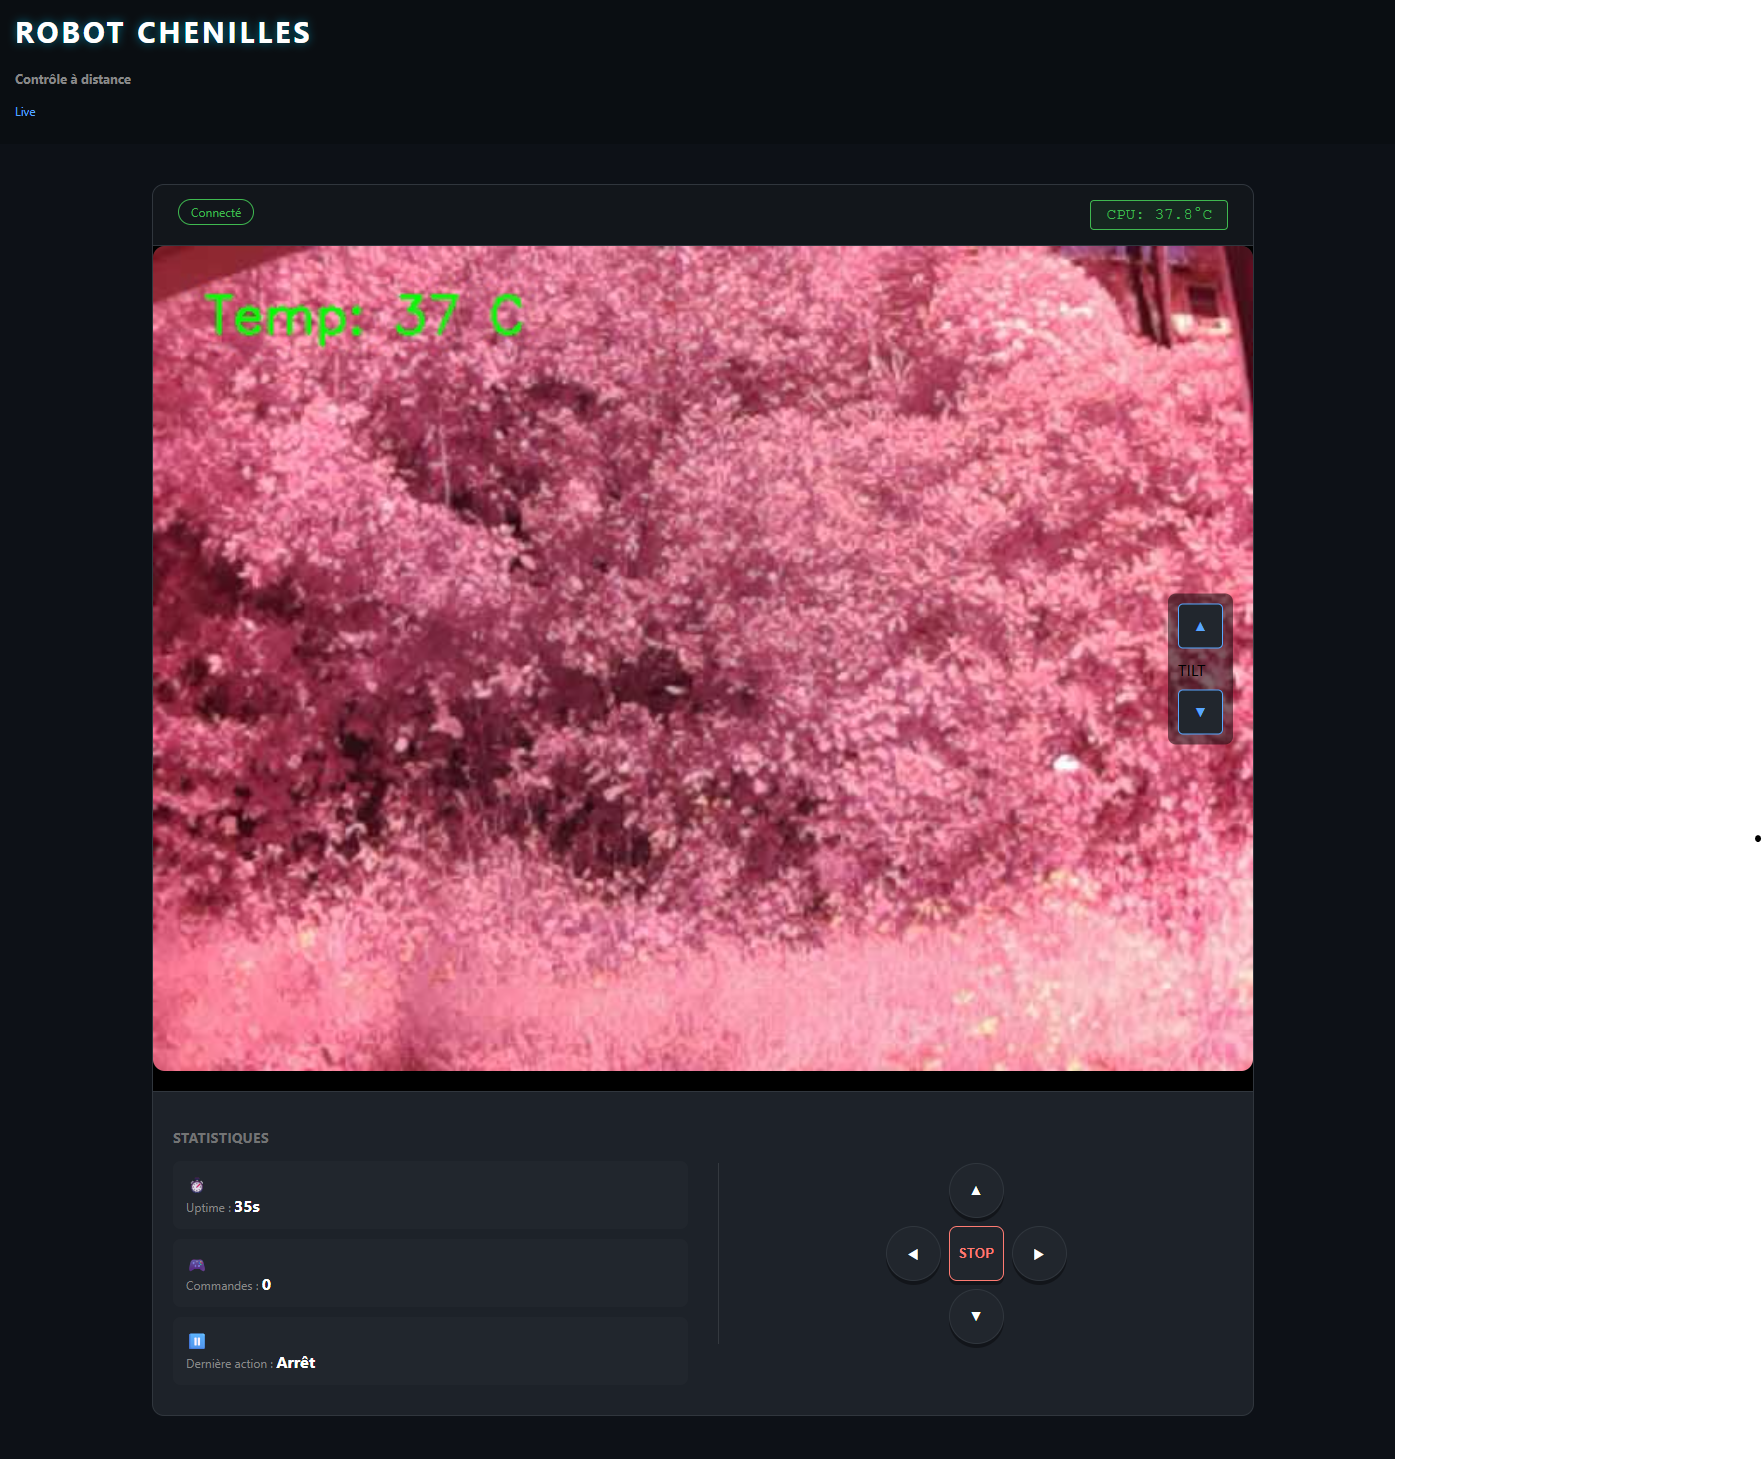
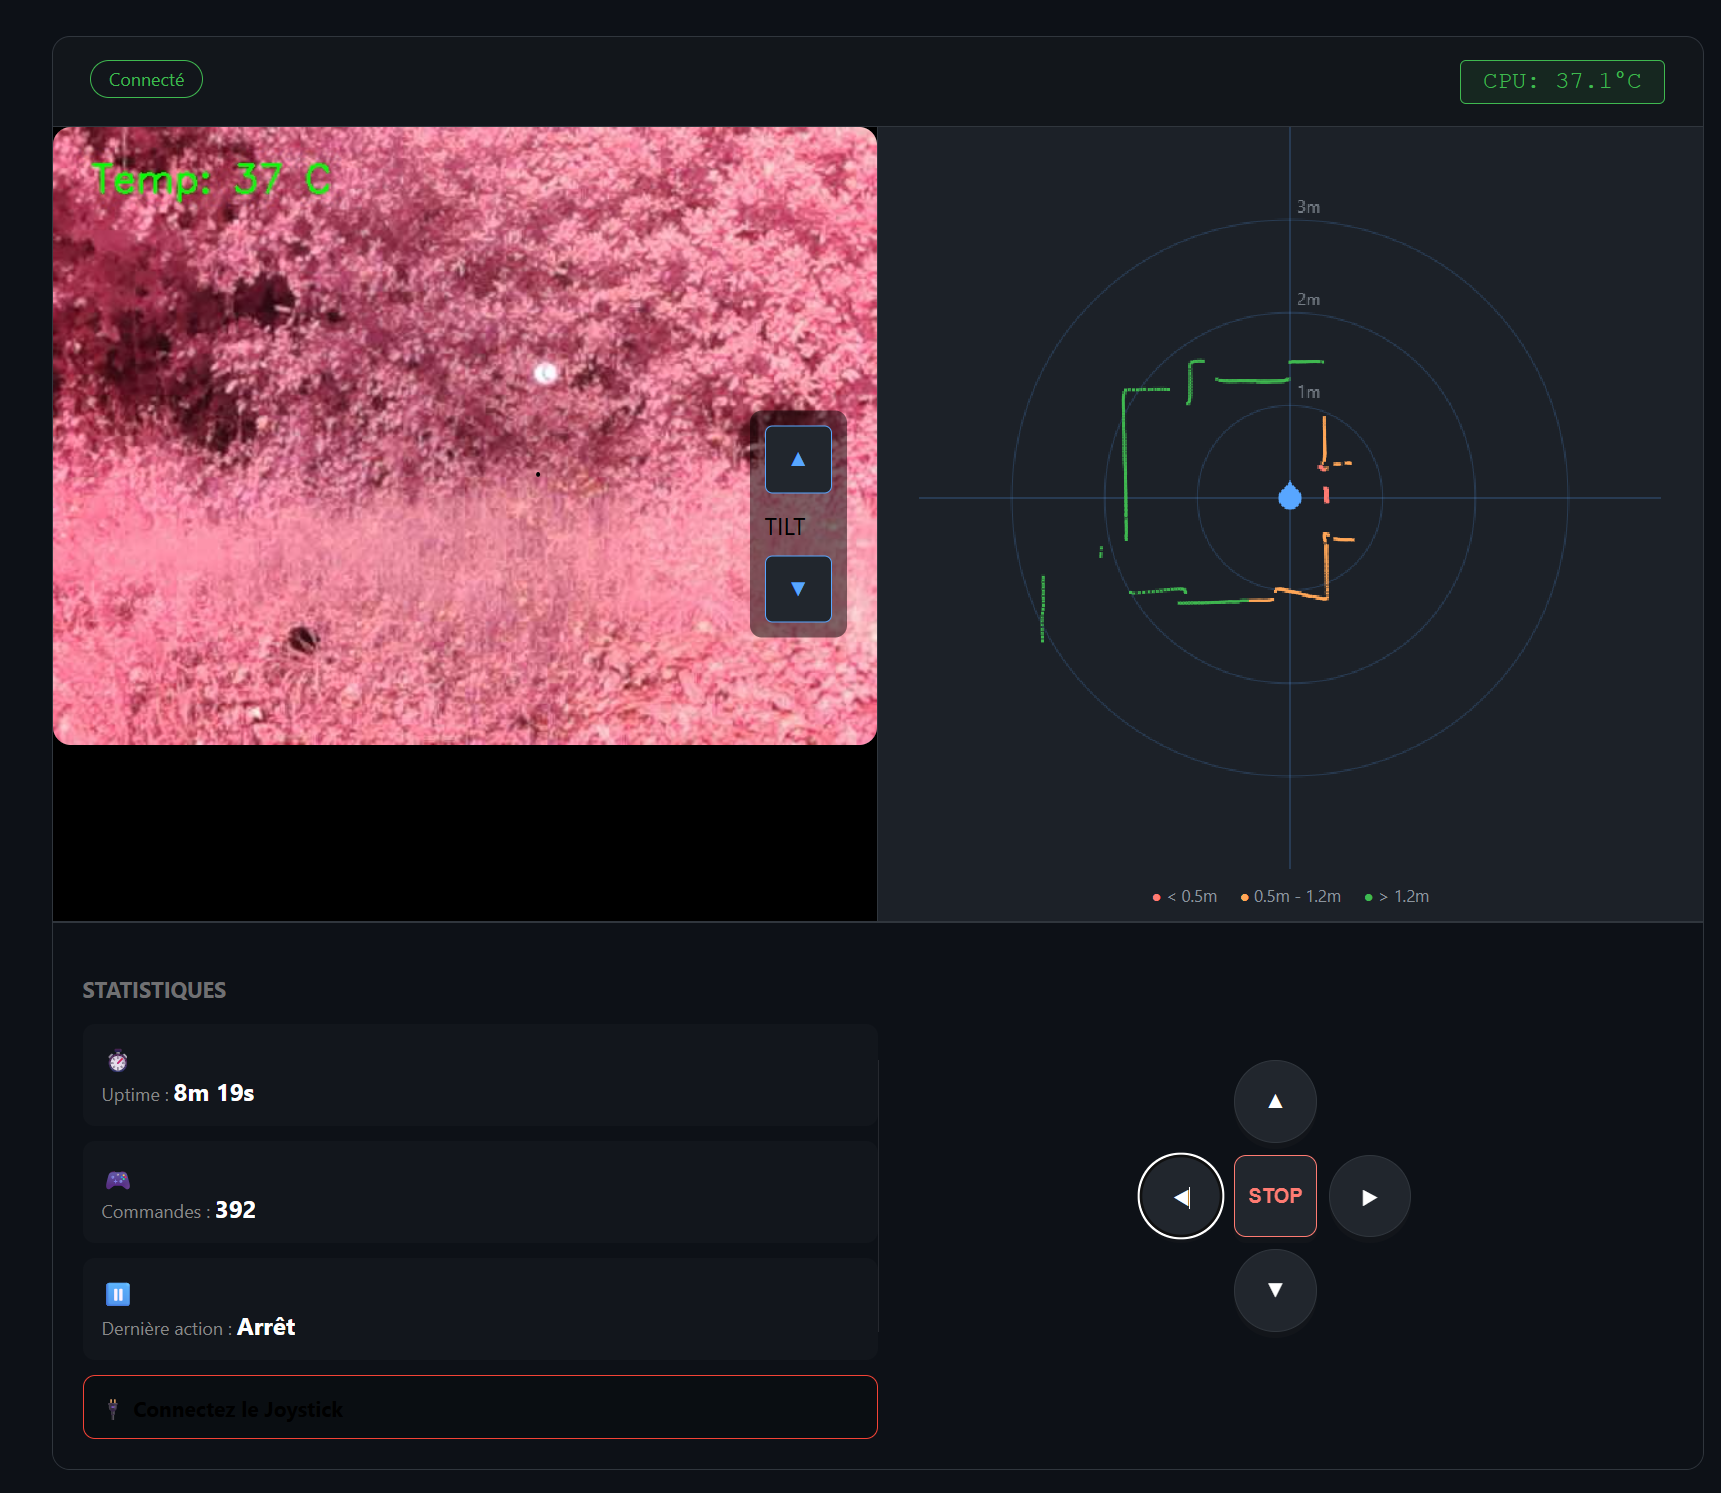
:lidar

diff --git a/README.md b/README.md
@@ -1,25 +1,33 @@
 # Robot Chenilles - Exploration Terrestre
 
+![ROS 2](https://img.shields.io/badge/ROS2-Jazzy-blue)
+![Python](https://img.shields.io/badge/Python-3.11-yellow)
+![C++](https://img.shields.io/badge/C%2B%2B-17-blue)
+![Docker](https://img.shields.io/badge/Docker-Enabled-blue)
+![React](https://img.shields.io/badge/React-18-61DAFB)
+
 Ce projet présente un robot d'exploration terrestre autonome et téléopéré. Le système repose sur ROS 2 Jazzy et une Raspberry Pi 5, offrant une architecture modulaire et performante.
 
 ![Demo](assets/ihm.png)
 
-![Demo](assets/robot.png)
+![Demo](assets/robot.jpeg)
 
 # Interface de Contrôle (Frontend)
 L'interface utilisateur est développée en React. Elle permet de :
 
-* Visualiser le flux vidéo en temps réel avec incrustation des données (température).
-* Piloter le robot via un joystick virtuel ou le clavier (↑, ↓, →, ←).
-* Incliner la caméra (Tilt) pour ajuster le champ de vision.
-* Surveiller l'état du système (température du CPU).
+* **Visualiser le flux vidéo** en temps réel avec incrustation des données (température).
+* **Piloter le robot** via un joystick virtuel ou le clavier (↑, ↓, →, ←).
+* **Incliner la caméra** (Tilt) pour ajuster le champ de vision.
+* **Surveiller l'état du système** (température du CPU).
+* **Radar LiDAR** : Affichage des obstacles en 2D avec zones de collision (0.5m, 1.2m).
 
 # Spécifications Techniques
-* Cerveau : Raspberry Pi 5 (8 Go RAM)
-* Middleware : ROS 2 Jazzy (Debian Bookworm)
-* Alimentation : Batterie LiPo 3S 11.1V.
-* Capteurs : Caméra OV5647 (Grand angle), Sonde de température DS18B20.
-* Conteneurisation : Docker (Debian Bookworm comme image de base).
+* **Cerveau** : Raspberry Pi 5 (8 Go RAM)
+* **Middleware** : ROS 2 Jazzy (Debian Bookworm)
+* **Alimentation** : Batterie LiPo 3S 11.1V.
+* **Capteurs** : Caméra OV5647 (Grand angle), Sonde de température DS18B20.
+* **Conteneurisation** : Docker (Debian Bookworm comme image de base).
+* **LiDAR** : LDLiDAR LD19 (Scan 360°).
 
 # Architecture
 
@@ -37,6 +45,7 @@ L'interface utilisateur est développée en React. Elle permet de :
 | **rpicam-vid** | Exécutable	| Capture native (libcamera) et envoi UDP (Port 5000) |
 | **lgpio / RP1** | Noyau Linux | Pins GPIO (Moteurs + Stepper + Capteur de température) |
 | **W1-Therm** | Bus 1-Wire | Capteur DS18B20 |
+| **ldlidar_stl_ros2** | Externe (Driver) | Node fourni par le constructeur pour traduire les trames série du LD19 en messages /scan standards. |
 
 # 1. Structure du Workspace sur la Pi5
 Le projet utilise la structure standard de ROS 2. Nous allons cloner ton dépôt GitHub directement dans le dossier source.
